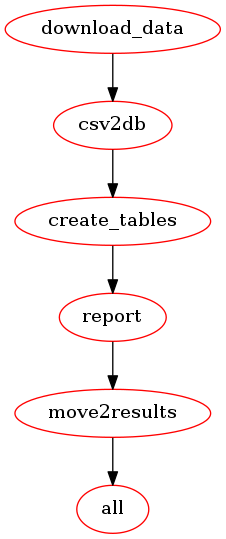
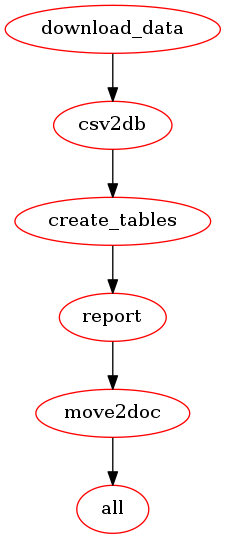
Removed data analysis action plan from readme

Changed region(s): [[0.0619, 0.7124, 0.9292, 0.8312]]

diff --git a/README.md b/README.md
@@ -38,13 +38,6 @@ Released Under [**World Bank Dataset Terms of Use**](http://web.worldbank.org/WB
 
 
 
-## Data Analysis Plan 📋
-
-- Clean and structurize the data.
-- Run hypothesis tests on the above mentioned hypothesis (maybe paired t-test or ANOVA?).
-- Represent the final results in the form of graphs and figures.
-- Document the findings from the dataset.
-
 ## How to run the analysis ⚙
 
 1. Clone this repo to a local folder on your system.
@@ -64,7 +57,7 @@ Released Under [**World Bank Dataset Terms of Use**](http://web.worldbank.org/WB
 		
 This will run all the scripts in the `src/` folder as per the sequence in `Makefile` and render the analysis in the `results/` folder.
 
-The final report is rendered at this location: `results/finalreport/`
+**The final report is rendered at this location: `doc/final_report/`**
 
 ### Makefile Dependency Graph:
 <p align="center">
